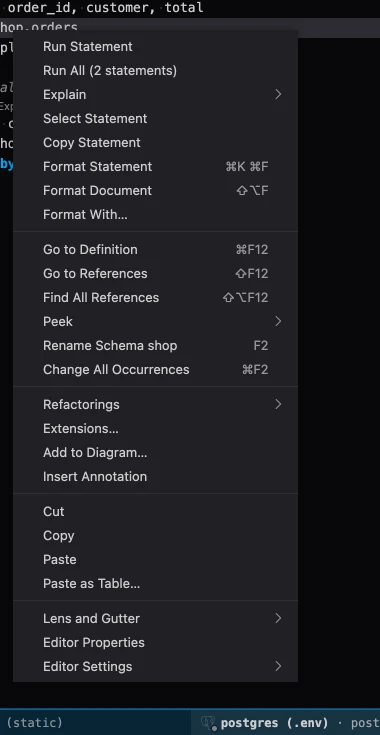
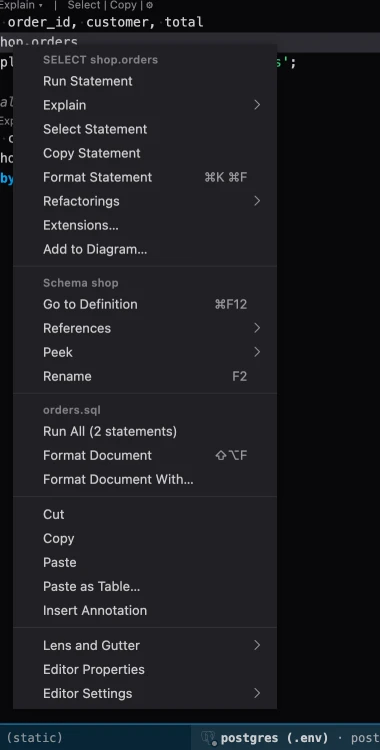
changelog: 0.33.0 notes: the editor's right click in parts, each headed by what it acts on

diff --git a/changelog/free-v0.33.0/README.md b/changelog/free-v0.33.0/README.md
@@ -28,7 +28,8 @@
 - **A shorter right click in Objects:** an object's menu in groups, eighteen entries instead of
   twenty-seven.
 - **Everything for a statement in its right click:** run it, explain it, select, copy and
-  format it, the same as its lens and its gutter buttons, even with both switched off.
+  format it, the same as its lens and its gutter buttons, even with both switched off, and the
+  menu says which statement and which word it acts on.
 - **More in the status bar:** how your last run went, and the session's search_path, one click
   from putting another schema first.
 - **Commit and Rollback in the toolbar:** while a transaction is open, its end is one click
@@ -391,18 +392,21 @@ then the tree's own entries.
 
 ### Everything for a statement in its right click
 
-Right-click a statement in the editor and the menu starts with what you do with it: **Run
-Statement** (Run Selection when text is selected), **Run All**, **Explain**, **Select
-Statement**, **Copy Statement**, **Format Statement**, **Format Document** and **Format With…**.
-They do exactly what the statement's lens items and gutter buttons do, so switching the lens
-and the gutter off costs you nothing.
+Right-click a statement in the editor and the menu is in parts, each headed by what it acts on:
 
-![The editor's right click on a statement: running and formatting first, then the references, the tools, the clipboard, and Lens and Gutter](media/editor-menu.webp)
+- **The statement** (`SELECT shop.orders`): Run Statement (Run Selection when text is
+  selected), Explain, Select Statement, Copy Statement, Format Statement, Refactorings,
+  Extensions and Add to Diagram….
+- **The word under the cursor** (`Column data_point_id`, `Table orders`): Go to Definition,
+  References, Peek and Rename.
+- **The whole script** (`orders.sql`): Run All, Format Document and Format Document With….
 
-Then come going to a definition or the references, the tools (**Refactorings**, **Extensions**,
-**Add to Diagram…**, **Insert Annotation**), the clipboard, and **Lens and Gutter**, the lens's
-own list of what shows above and beside each statement. The Command Palette left the menu: F1
-opens it.
+![The editor's right click in three parts, each headed by what it acts on: the statement, the word under the cursor, the whole script](media/editor-menu.webp)
+
+Then the clipboard (with Paste as Table… and Insert Annotation), and **Lens and Gutter**, the
+lens's own list of what shows above and beside each statement. The statement's rows do exactly
+what its lens items and gutter buttons do, so switching the lens and the gutter off costs you
+nothing. The Command Palette left the menu: F1 opens it.
 
 ### Explain Analyze says what it wraps
 
